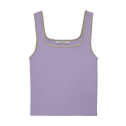
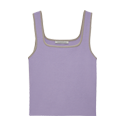
아크하이브 작ㅈ업중

Changed region(s): [[0.2143, 0.0714, 0.4048, 0.9286], [0.5238, 0.0714, 0.7857, 0.9286], [0.4286, 0.3095, 0.4524, 0.3571]]

diff --git a/src/assets/css/archive.scss b/src/assets/css/archive.scss
@@ -238,6 +238,7 @@
 				}
 				img {
 					display: block;
+					border-radius: 36px;
 				}
 			}
 		}
@@ -299,6 +300,9 @@
 				.archive-detail__product {
 					&:not(:first-child) {
 						margin-top: 5px;
+					}
+					img {
+						border-radius: 26px;
 					}
 				}
 			}
